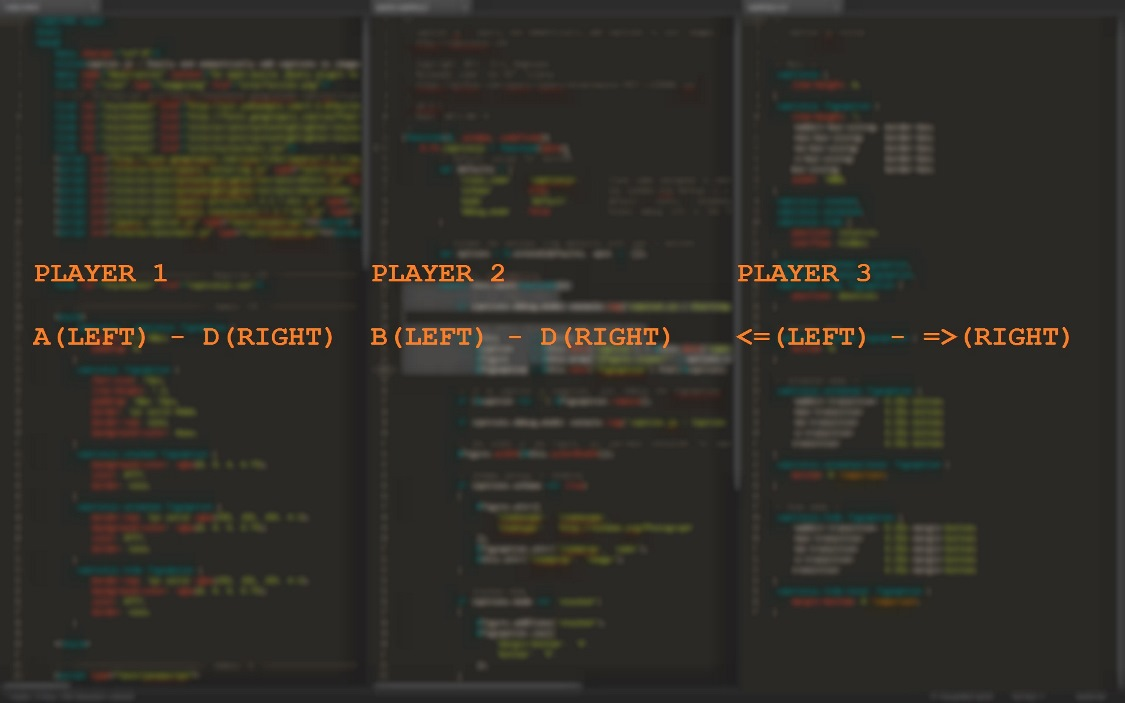
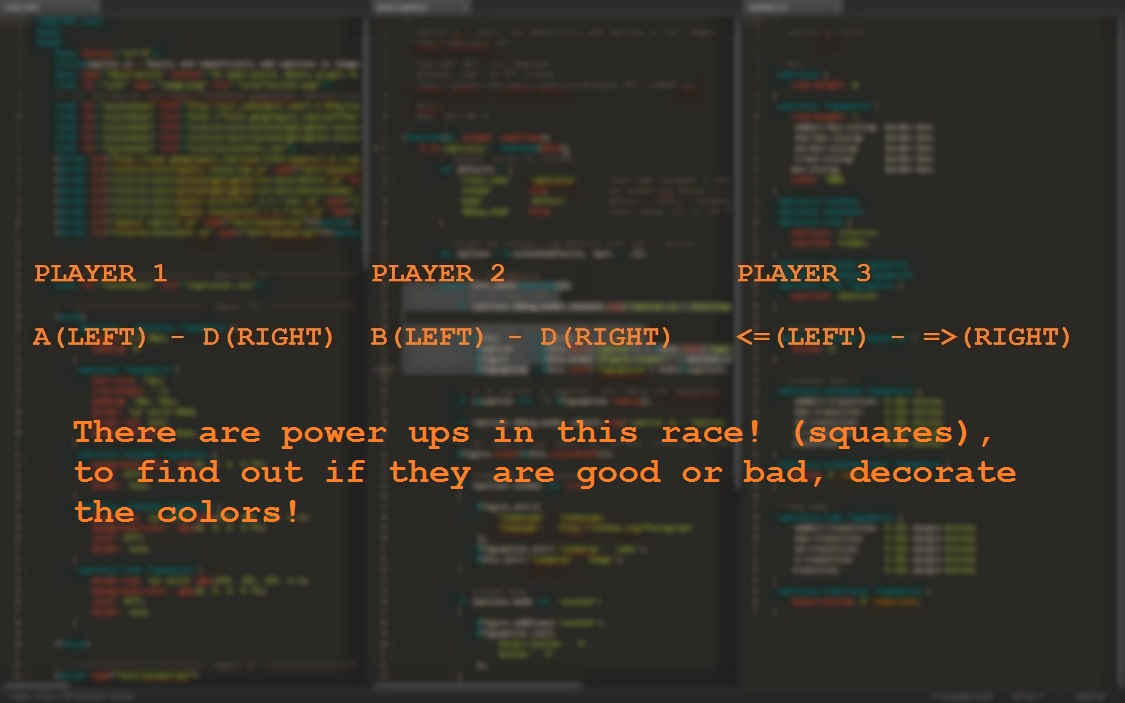
FINAL VERSION (ThreadRun)

Changed region(s): [[0.0622, 0.5974, 0.9022, 0.6871], [0.0622, 0.7169, 0.28, 0.7468]]

diff --git a/src/ourGame/Menu.java b/src/ourGame/Menu.java
@@ -11,6 +11,7 @@ import javax.swing.ImageIcon;
 import java.awt.Font;
 import java.awt.Color;
 import javax.swing.SwingConstants;
+import javax.swing.Timer;
 
 import java.awt.event.MouseAdapter;
 import java.awt.event.MouseEvent;
@@ -39,7 +40,7 @@ public class Menu extends JFrame {
 	private int count;
 	private JButton btn_StarGame;
 	private ImageIcon[] player_images = new ImageIcon[3];
-
+	private Timer t;
 
 	private JLabel lblSelectYourPlayer;
 	private JLabel player_4;
@@ -110,7 +111,7 @@ public class Menu extends JFrame {
 		player_2.setBounds(820, 291, 150, 150);
 		getContentPane().add(player_2);
 
-		javax.swing.Timer t;
+	
 
 		lblSelectYourPlayer = new JLabel("SELECT PLAYER 1");
 		lblSelectYourPlayer.setHorizontalAlignment(SwingConstants.CENTER);
@@ -195,8 +196,8 @@ public class Menu extends JFrame {
 		}else if(count == 1) {
 			lblSelectYourPlayer.setText("SELECT PLAYER 3");
 		}else if (count == 2) {
-			lblSelectYourPlayer.setText("PRESS START!!!");
 			lblInstructions.setVisible(true);
+			t.stop();
 			name_game.setVisible(false);	
 			//btn_StarGame.setVisible(true);
 			player_1.setVisible(false);
@@ -204,6 +205,7 @@ public class Menu extends JFrame {
 			player_3.setVisible(false);
 			player_4.setVisible(false);
 			fundo_menu.setIcon(new ImageIcon(getClass().getResource("/ThreadRunImages/fundo_image_instructions1.jpg")));
+			lblSelectYourPlayer.setVisible(false);
 			btn_StarGame.setVisible(true);
 			
 		}
